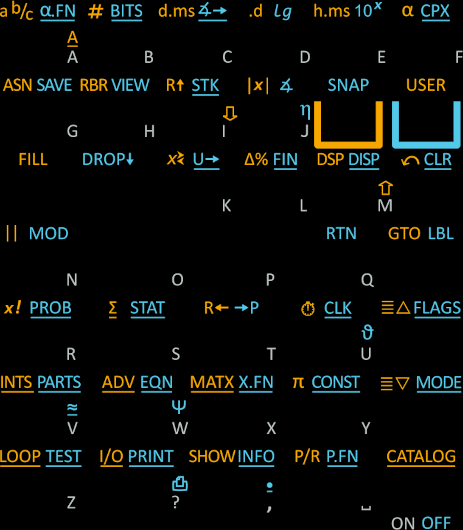
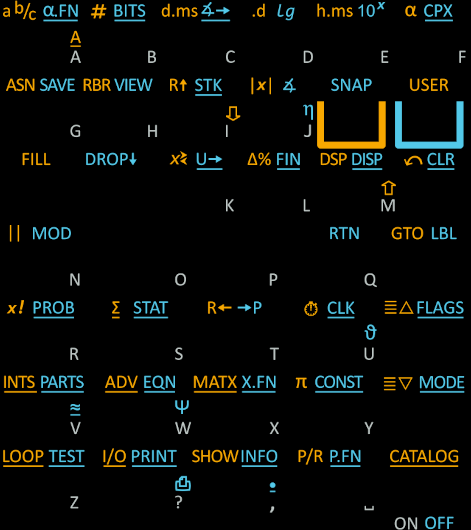
Bezel glitch fixed

diff --git a/src/wp43s/gui.c b/src/wp43s/gui.c
@@ -799,7 +799,7 @@
       gtk_fixed_put(GTK_FIXED(grid), backgroundImage, 0, 0);
 
       bezelImage = gtk_image_new_from_file("res/artwork/normal.png");
-      gtk_fixed_put(GTK_FIXED(grid), bezelImage, (calcLandscape ? X_LEFT_LANDSCAPE : X_LEFT_PORTRAIT) - 13, calcLandscape ? 3 : 423);
+      gtk_fixed_put(GTK_FIXED(grid), bezelImage, (calcLandscape ? X_LEFT_LANDSCAPE : X_LEFT_PORTRAIT) - 16, calcLandscape ? 4 : 422);
 
       // Areas for the g shifted softkeys
       lblGSoftkeyArea = gtk_label_new("");
